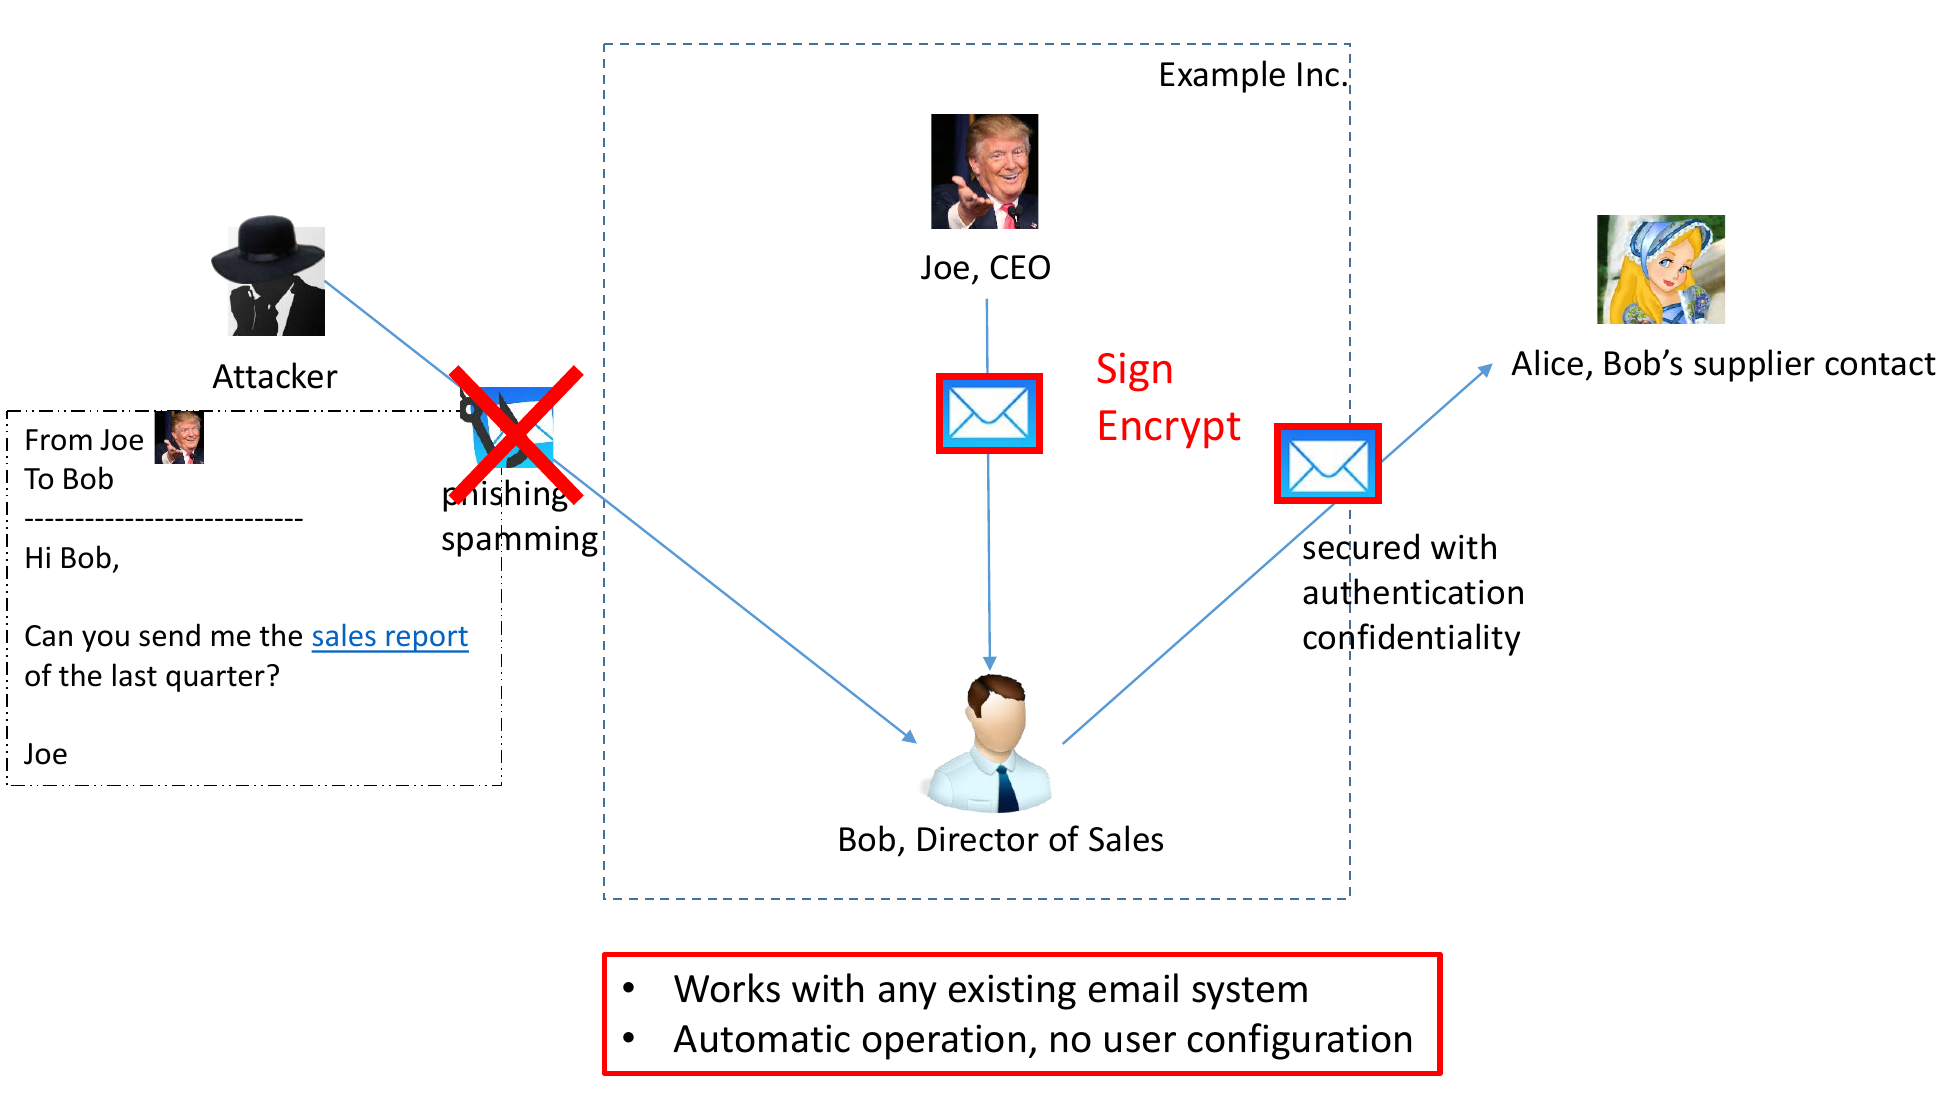
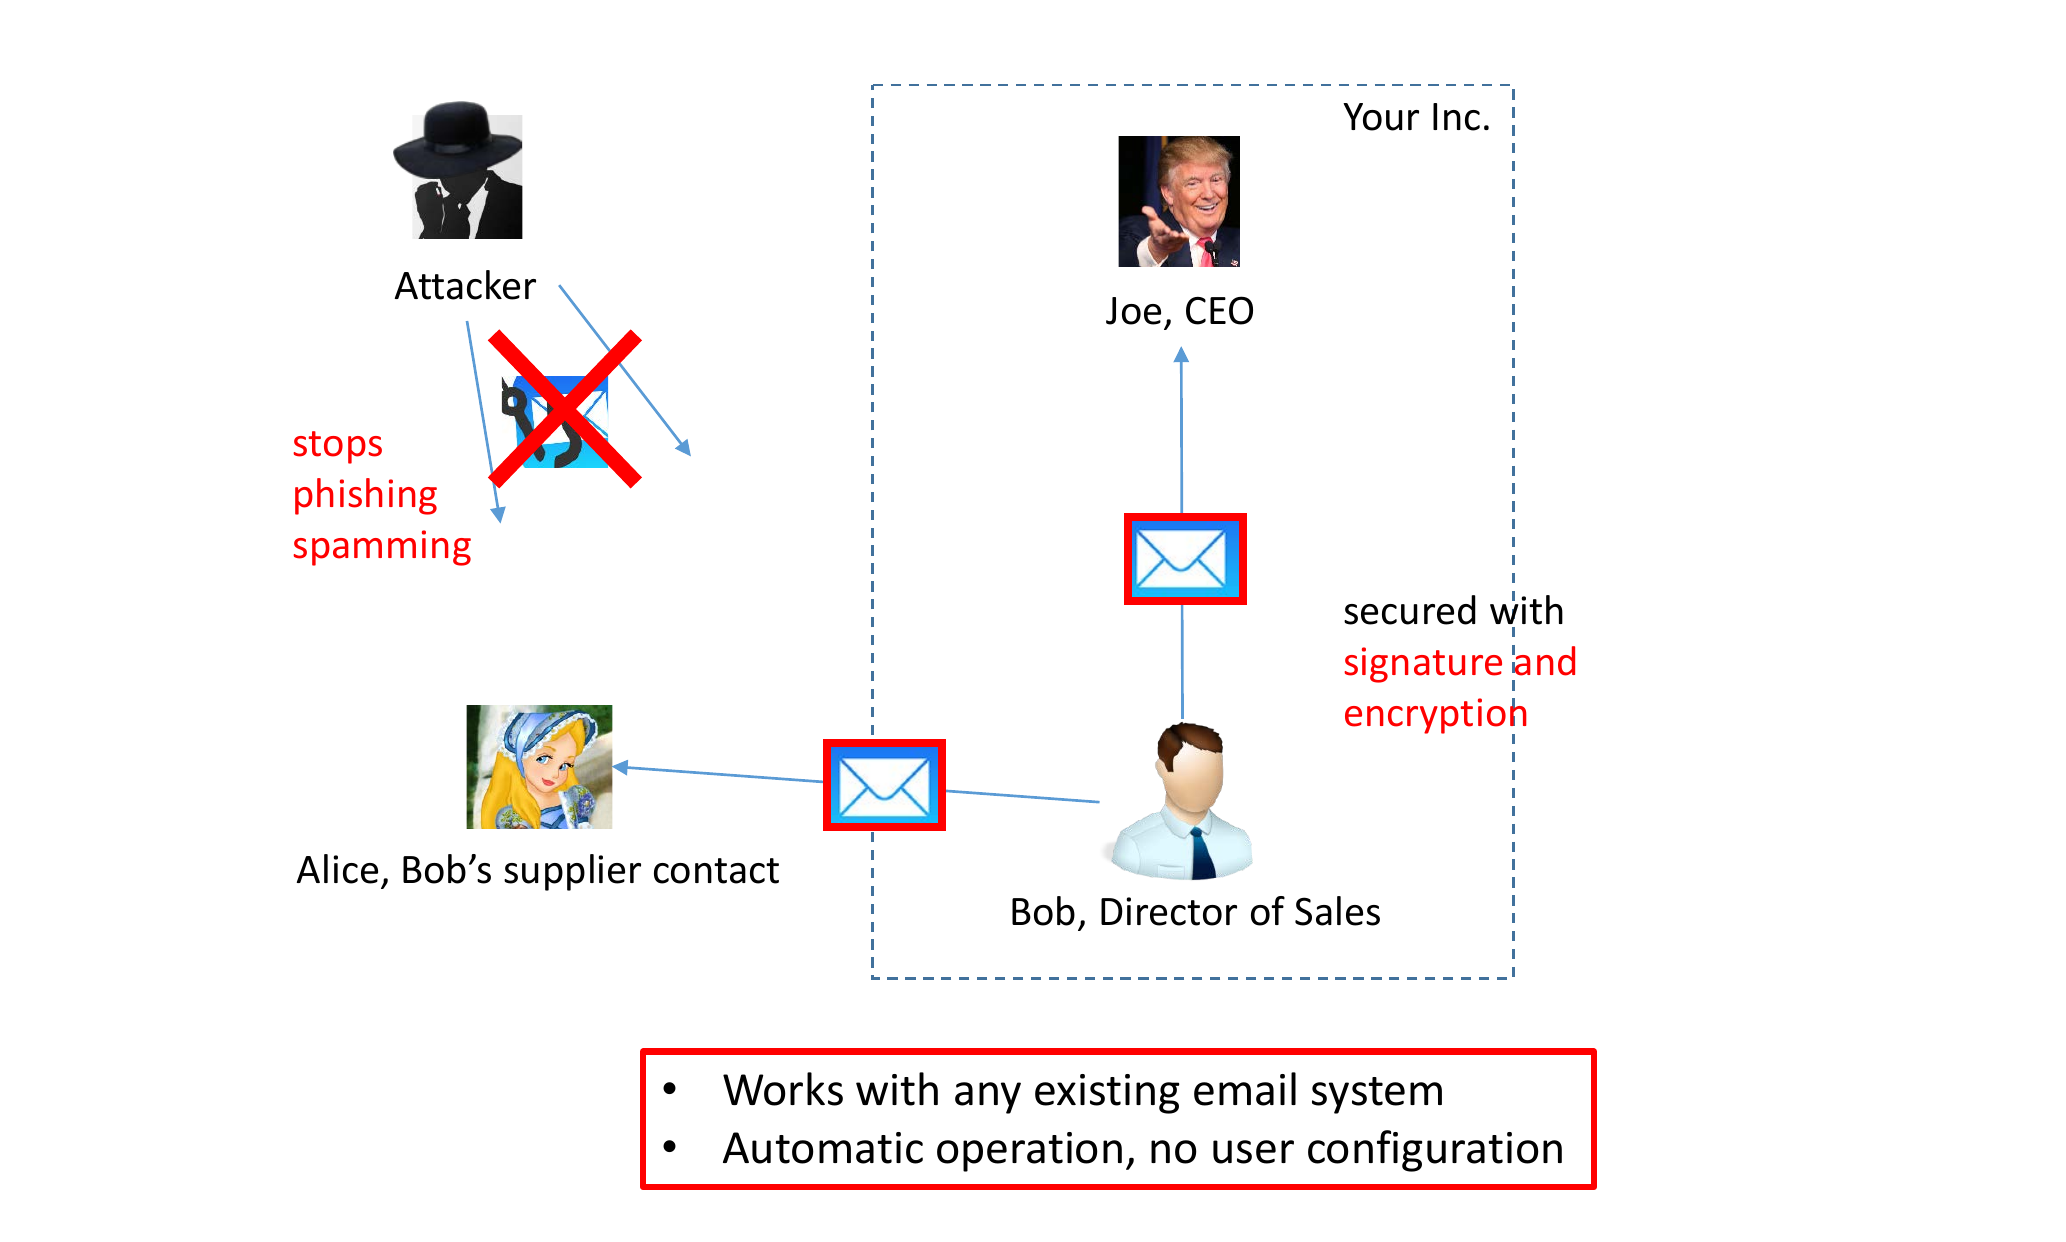
Separate phishing and no authentication.

diff --git a/index.html b/index.html
@@ -8,13 +8,20 @@ date:   2017-01-17 18:06:33 -0800
 
 <div class="page-section" id="introduction">
 <h2 class="section-title">Email Threats to Your Organizatioin</h2>
-<img id="solution-picture" src="/images/email-threats.png"
+<h3 class="section-title">Phishing and Spamming</h3>
+<img id="solution-picture" src="/images/email-threats-phishing.png"
       width="100%" alt="Email threats to your organization"/>
 
   <ul>
-    <li>Phishing/spamming: malicious emails from attackers, which look like normal business emails, attempt to steal your information or control your computer.
-    <li>No authentication or confidentiality for authentic business emails.
+    <li>Malicious emails from attackers, which look like normal business emails, attempt to steal your information or control your computer.
   </ul>
+  <h3 class="section-title">No Authentication, No Confidentiality</h3>
+  <img id="solution-picture" src="/images/email-threats-no.png"
+        width="100%" alt="Email threats to your organization"/>
+
+    <ul>
+      <li>No authentication or confidentiality for authentic business emails.
+    </ul>
 
 </div>
 
@@ -24,8 +31,8 @@ date:   2017-01-17 18:06:33 -0800
       width="100%" alt="Secregen stops them for you"/>
 
 <ul>
-  <li><bold>Sign</bold>: similar to signing a contract or letter on paper, use your digital pen to sign your email to confirm that it is you who send the letter, not someone else.
-  <li><bold>Encrypt</bold>: make your email secret so that only intended recipients can decrypt and read it.
+  <li><bold>Signature</bold>: similar to signing a contract or letter on paper, leave your  digital signature on your email to confirm that it is you who send the letter, not someone else.
+  <li><bold>Encryption</bold>: make your email secret so that only intended recipients can decrypt and read it.
 </ul>
 </div>
 
